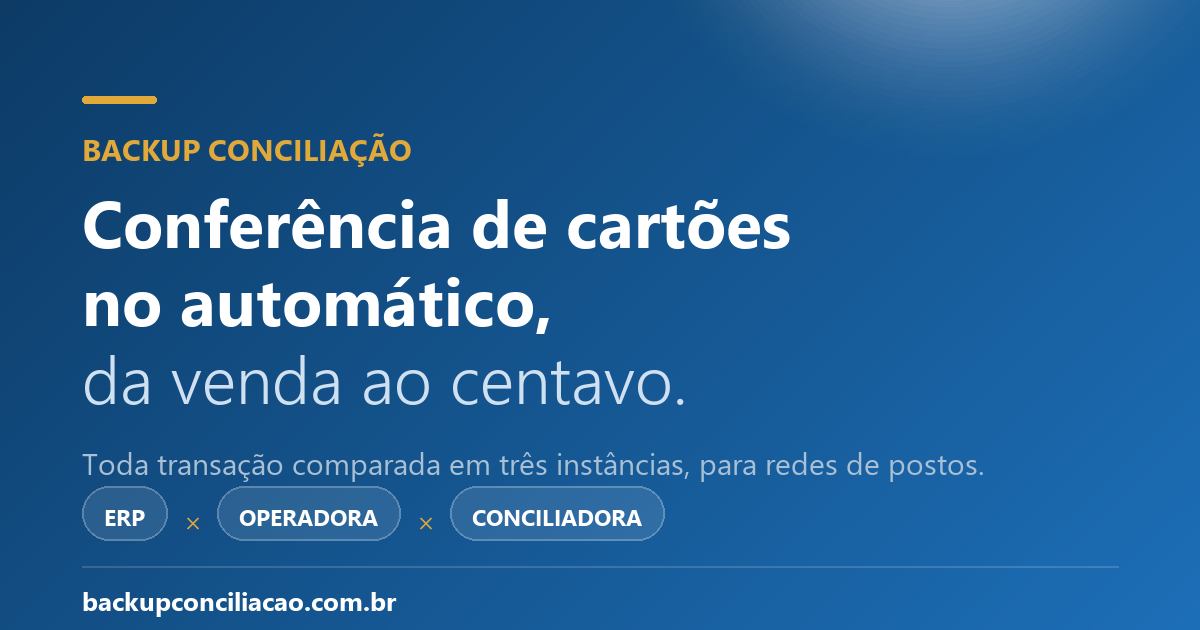
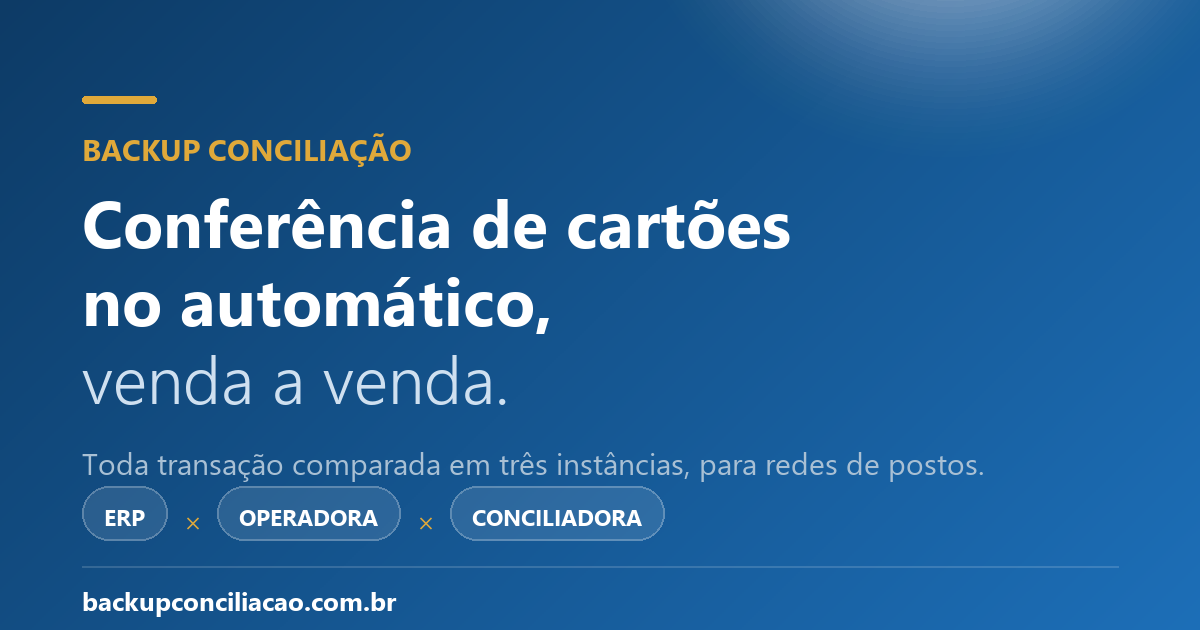
fix(textos): preço na tela e slogan 'venda a venda' (#47)
* fix(preco): trocar 'preço publicado, sem consulte-nos' por 'preço na tela'

Etiqueta do topo de /preco/ e destaques da home: o jargão 'consulte-nos' não era entendido. Agora: 'Preço na tela, sem pedir orçamento'.

* fix(home): slogan 'venda a venda' no lugar de 'da venda ao centavo'

O que pesa no posto é conferir venda por venda na mão; o título fala dessa dor. Pedido do owner 20/11/2026.

* fix(site): slogan 'venda a venda' no rodapé e na imagem de compartilhamento

Rodapé e og:image:alt das 25 páginas e og-image.png regerado. gerar_og_image.py passa a gravar ao lado do script (a pasta antiga do Desktop não existe mais).

---------

Changed region(s): [[0.0617, 0.573, 0.555, 0.6635]]

diff --git a/index.html b/index.html
@@ -21,7 +21,7 @@
 <meta property="og:image:width" content="1200">
 <meta property="og:image:height" content="630">
 <meta property="og:image:type" content="image/png">
-<meta property="og:image:alt" content="Backup Conciliação — conferência de cartões no automático, da venda ao centavo.">
+<meta property="og:image:alt" content="Backup Conciliação — conferência de cartões no automático, venda a venda.">
 
 <meta name="twitter:card" content="summary_large_image">
 <meta name="twitter:title" content="Backup Conciliação">
@@ -223,7 +223,7 @@
   <div class="wrap hero-inner">
     <div>
       <span class="eyebrow">Para redes de postos de combustíveis</span>
-      <h1>Conferência de cartões <span class="grad">no automático</span>, da venda ao centavo.</h1>
+      <h1>Conferência de cartões <span class="grad">no automático</span>, venda&nbsp;a&nbsp;venda.</h1>
       <p class="lead">Robôs baixam os relatórios das operadoras de cartão, frota, vale e PIX, cruzam com o seu ERP e a conciliadora, e apontam exatamente onde <strong>falta, sobra ou não foi pago</strong> — antes de virar prejuízo.</p>
       <div class="hero-cta">
         <a href="#contato" class="btn btn-primary">Use e pague após 30 dias &rarr;</a>
@@ -446,7 +446,7 @@
 <section id="calculadora" class="alt">
   <div class="wrap">
     <div class="sec-head">
-      <span class="kicker">Preço publicado</span>
+      <span class="kicker">Preço na tela</span>
       <h2>Quanto fica para a sua rede</h2>
       <p>O preço é por empresa (CNPJ), e o escopo final é fechado no contrato antes de começar. Sem taxa de implantação, sem fidelidade.</p>
     </div>
@@ -512,7 +512,7 @@
       </div>
       <div class="gcard">
         <div class="ico"><svg viewBox="0 0 24 24" aria-hidden="true"><path d="M20 12l-8 8-9-9V3h8z"/><circle cx="7.5" cy="7.5" r="1.5"/></svg></div>
-        <h3>Preço publicado</h3>
+        <h3>Preço na tela, sem pedir orçamento</h3>
         <p>R$ 150 por empresa (CNPJ) por mês na conferência de cartões. O escopo final é fechado no contrato antes de começar. <a href="/preco/">Ver preços</a>.</p>
       </div>
       <div class="gcard">
@@ -640,7 +640,7 @@
     <div class="foot-top">
       <div>
         <div class="foot-brand"><img class="logo" src="/logo.png" alt="" width="34" height="34"> Backup Conciliação</div>
-        <p style="max-width:340px">Conferência de cartões e conciliação bancária para redes de postos de combustíveis e varejo multiloja — automatizada da venda ao centavo. Atendimento 100% remoto em todo o Brasil.</p>
+        <p style="max-width:340px">Conferência de cartões e conciliação bancária para redes de postos de combustíveis e varejo multiloja — automatizada, venda a venda. Atendimento 100% remoto em todo o Brasil.</p>
       </div>
       <div>
         <h5>Navegação</h5>

diff --git a/preco/index.html b/preco/index.html
@@ -19,7 +19,7 @@
 <meta property="og:image" content="https://backupconciliacao.com.br/og-image.png">
 <meta property="og:image:width" content="1200">
 <meta property="og:image:height" content="630">
-<meta property="og:image:alt" content="Backup Conciliação — conferência de cartões no automático, da venda ao centavo.">
+<meta property="og:image:alt" content="Backup Conciliação — conferência de cartões no automático, venda a venda.">
 <meta name="twitter:card" content="summary_large_image">
 <meta name="twitter:title" content="Preço da conciliação de cartões para redes de postos">
 <meta name="twitter:description" content="R$ 150 por empresa/mês na conferência de cartões, R$ 100 na bancária. Preço publicado, sem fidelidade.">
@@ -187,7 +187,7 @@
           <li aria-current="page">Preço</li>
         </ol>
       </nav>
-      <span class="eyebrow">Preço publicado, sem "consulte-nos"</span>
+      <span class="eyebrow">Preço na tela, sem pedir orçamento</span>
       <h1>Preço da conciliação de cartões para redes de postos</h1>
       <p class="lead">R$ 150 por empresa/mês na conferência de cartões e R$ 100 na conciliação bancária. São os <strong>preços de cada módulo</strong>, e o escopo final é fechado no contrato antes de começar. Sem fidelidade: use e pague após 30 dias.</p>
       <div class="hero-cta">
@@ -197,7 +197,7 @@
       <div class="trust">
         <div><b>30 dias</b><span>use e pague após 30 dias</span></div>
         <div><b>Sem fidelidade e sem multa</b><span>para encerrar, avise com 30 dias</span></div>
-        <div><b>Preço publicado</b><span>escopo fechado no contrato</span></div>
+        <div><b>Preço na tela</b><span>escopo fechado no contrato</span></div>
       </div>
     </div>
   </div>
@@ -508,7 +508,7 @@
     <div class="foot-top">
       <div>
         <div class="foot-brand"><img class="logo" src="/logo.png" alt="" width="34" height="34"> Backup Conciliação</div>
-        <p style="max-width:340px">Conferência de cartões e conciliação bancária para redes de postos de combustíveis e varejo multiloja — automatizada da venda ao centavo. Atendimento 100% remoto em todo o Brasil.</p>
+        <p style="max-width:340px">Conferência de cartões e conciliação bancária para redes de postos de combustíveis e varejo multiloja — automatizada, venda a venda. Atendimento 100% remoto em todo o Brasil.</p>
       </div>
       <div>
         <h5>Navegação</h5>

diff --git a/guias/conciliacao-cartao-frota-posto/index.html b/guias/conciliacao-cartao-frota-posto/index.html
@@ -19,7 +19,7 @@
 <meta property="og:image" content="https://backupconciliacao.com.br/og-image.png">
 <meta property="og:image:width" content="1200">
 <meta property="og:image:height" content="630">
-<meta property="og:image:alt" content="Backup Conciliação — conferência de cartões no automático, da venda ao centavo.">
+<meta property="og:image:alt" content="Backup Conciliação — conferência de cartões no automático, venda a venda.">
 <meta name="twitter:card" content="summary_large_image">
 <meta name="twitter:title" content="Conciliação de cartão frota no posto: TicketLog, ValeCard, CTF, ProFrotas e Truckpag">
 <meta name="twitter:description" content="Como conferir cartão frota no posto (TicketLog, ValeCard, CTF, ProFrotas, Truckpag): do abastecimento ao reembolso no banco, passo a passo.">
@@ -295,7 +295,7 @@
     <div class="foot-top">
       <div>
         <div class="foot-brand"><img class="logo" src="/logo.png" alt="" width="34" height="34"> Backup Conciliação</div>
-        <p style="max-width:340px">Conferência de cartões e conciliação bancária para redes de postos de combustíveis e varejo multiloja — automatizada da venda ao centavo. Atendimento 100% remoto em todo o Brasil.</p>
+        <p style="max-width:340px">Conferência de cartões e conciliação bancária para redes de postos de combustíveis e varejo multiloja — automatizada, venda a venda. Atendimento 100% remoto em todo o Brasil.</p>
       </div>
       <div>
         <h5>Navegação</h5>

diff --git a/guias/getnet-nao-pagou-venda-do-posto/index.html b/guias/getnet-nao-pagou-venda-do-posto/index.html
@@ -19,7 +19,7 @@
 <meta property="og:image" content="https://backupconciliacao.com.br/og-image.png">
 <meta property="og:image:width" content="1200">
 <meta property="og:image:height" content="630">
-<meta property="og:image:alt" content="Backup Conciliação — conferência de cartões no automático, da venda ao centavo.">
+<meta property="og:image:alt" content="Backup Conciliação — conferência de cartões no automático, venda a venda.">
 <meta name="twitter:card" content="summary_large_image">
 <meta name="twitter:title" content="A Getnet não pagou uma venda do posto: como descobrir, provar e cobrar">
 <meta name="twitter:description" content="Como descobrir a venda que a Getnet não pagou ao posto, que prova juntar (NSU, autorização, extrato) e como pedir o ajuste, passo a passo.">
@@ -283,7 +283,7 @@
     <div class="foot-top">
       <div>
         <div class="foot-brand"><img class="logo" src="/logo.png" alt="" width="34" height="34"> Backup Conciliação</div>
-        <p style="max-width:340px">Conferência de cartões e conciliação bancária para redes de postos de combustíveis e varejo multiloja — automatizada da venda ao centavo. Atendimento 100% remoto em todo o Brasil.</p>
+        <p style="max-width:340px">Conferência de cartões e conciliação bancária para redes de postos de combustíveis e varejo multiloja — automatizada, venda a venda. Atendimento 100% remoto em todo o Brasil.</p>
       </div>
       <div>
         <h5>Navegação</h5>

diff --git a/guias/taxa-cielo-acima-do-contrato-posto/index.html b/guias/taxa-cielo-acima-do-contrato-posto/index.html
@@ -19,7 +19,7 @@
 <meta property="og:image" content="https://backupconciliacao.com.br/og-image.png">
 <meta property="og:image:width" content="1200">
 <meta property="og:image:height" content="630">
-<meta property="og:image:alt" content="Backup Conciliação — conferência de cartões no automático, da venda ao centavo.">
+<meta property="og:image:alt" content="Backup Conciliação — conferência de cartões no automático, venda a venda.">
 <meta name="twitter:card" content="summary_large_image">
 <meta name="twitter:title" content="Taxa da Cielo acima do contrato no posto: como conferir e pedir o ajuste">
 <meta name="twitter:description" content="Como calcular a taxa efetiva de cada venda da Cielo, comparar com o contrato por bandeira e modalidade e pedir a revisão das diferenças.">
@@ -292,7 +292,7 @@
     <div class="foot-top">
       <div>
         <div class="foot-brand"><img class="logo" src="/logo.png" alt="" width="34" height="34"> Backup Conciliação</div>
-        <p style="max-width:340px">Conferência de cartões e conciliação bancária para redes de postos de combustíveis e varejo multiloja — automatizada da venda ao centavo. Atendimento 100% remoto em todo o Brasil.</p>
+        <p style="max-width:340px">Conferência de cartões e conciliação bancária para redes de postos de combustíveis e varejo multiloja — automatizada, venda a venda. Atendimento 100% remoto em todo o Brasil.</p>
       </div>
       <div>
         <h5>Navegação</h5>

diff --git a/guias/duplicidade-cartao-e-frota-mesmo-abastecimento/index.html b/guias/duplicidade-cartao-e-frota-mesmo-abastecimento/index.html
@@ -19,7 +19,7 @@
 <meta property="og:image" content="https://backupconciliacao.com.br/og-image.png">
 <meta property="og:image:width" content="1200">
 <meta property="og:image:height" content="630">
-<meta property="og:image:alt" content="Backup Conciliação — conferência de cartões no automático, da venda ao centavo.">
+<meta property="og:image:alt" content="Backup Conciliação — conferência de cartões no automático, venda a venda.">
 <meta name="twitter:card" content="summary_large_image">
 <meta name="twitter:title" content="Duplicidade: o mesmo abastecimento cobrado no cartão e na frota">
 <meta name="twitter:description" content="Como encontrar o mesmo abastecimento cobrado no cartão e no cartão frota, por que acontece e o que fazer antes que o cliente conteste.">
@@ -301,7 +301,7 @@
     <div class="foot-top">
       <div>
         <div class="foot-brand"><img class="logo" src="/logo.png" alt="" width="34" height="34"> Backup Conciliação</div>
-        <p style="max-width:340px">Conferência de cartões e conciliação bancária para redes de postos de combustíveis e varejo multiloja — automatizada da venda ao centavo. Atendimento 100% remoto em todo o Brasil.</p>
+        <p style="max-width:340px">Conferência de cartões e conciliação bancária para redes de postos de combustíveis e varejo multiloja — automatizada, venda a venda. Atendimento 100% remoto em todo o Brasil.</p>
       </div>
       <div>
         <h5>Navegação</h5>

diff --git a/guias/index.html b/guias/index.html
@@ -19,7 +19,7 @@
 <meta property="og:image" content="https://backupconciliacao.com.br/og-image.png">
 <meta property="og:image:width" content="1200">
 <meta property="og:image:height" content="630">
-<meta property="og:image:alt" content="Backup Conciliação — conferência de cartões no automático, da venda ao centavo.">
+<meta property="og:image:alt" content="Backup Conciliação — conferência de cartões no automático, venda a venda.">
 <meta name="twitter:card" content="summary_large_image">
 <meta name="twitter:title" content="Guias para o financeiro de redes de postos">
 <meta name="twitter:description" content="Guias práticos para o financeiro de redes de postos: quanto custa uma conciliadora e como conferir e cobrar Getnet, Cielo, TicketLog, frota e aplicativos.">
@@ -231,7 +231,7 @@
     <div class="foot-top">
       <div>
         <div class="foot-brand"><img class="logo" src="/logo.png" alt="" width="34" height="34"> Backup Conciliação</div>
-        <p style="max-width:340px">Conferência de cartões e conciliação bancária para redes de postos de combustíveis e varejo multiloja — automatizada da venda ao centavo. Atendimento 100% remoto em todo o Brasil.</p>
+        <p style="max-width:340px">Conferência de cartões e conciliação bancária para redes de postos de combustíveis e varejo multiloja — automatizada, venda a venda. Atendimento 100% remoto em todo o Brasil.</p>
       </div>
       <div>
         <h5>Navegação</h5>

diff --git a/guias/conferir-reembolso-ticketlog-posto/index.html b/guias/conferir-reembolso-ticketlog-posto/index.html
@@ -19,7 +19,7 @@
 <meta property="og:image" content="https://backupconciliacao.com.br/og-image.png">
 <meta property="og:image:width" content="1200">
 <meta property="og:image:height" content="630">
-<meta property="og:image:alt" content="Backup Conciliação — conferência de cartões no automático, da venda ao centavo.">
+<meta property="og:image:alt" content="Backup Conciliação — conferência de cartões no automático, venda a venda.">
 <meta name="twitter:card" content="summary_large_image">
 <meta name="twitter:title" content="Como conferir o reembolso da TicketLog no posto">
 <meta name="twitter:description" content="Passo a passo para conferir o reembolso da TicketLog no posto: abastecimentos do caixa, transações do portal, taxa combinada e crédito no banco.">
@@ -289,7 +289,7 @@
     <div class="foot-top">
       <div>
         <div class="foot-brand"><img class="logo" src="/logo.png" alt="" width="34" height="34"> Backup Conciliação</div>
-        <p style="max-width:340px">Conferência de cartões e conciliação bancária para redes de postos de combustíveis e varejo multiloja — automatizada da venda ao centavo. Atendimento 100% remoto em todo o Brasil.</p>
+        <p style="max-width:340px">Conferência de cartões e conciliação bancária para redes de postos de combustíveis e varejo multiloja — automatizada, venda a venda. Atendimento 100% remoto em todo o Brasil.</p>
       </div>
       <div>
         <h5>Navegação</h5>

diff --git a/guias/conferir-shellbox-semparar-ctf-posto/index.html b/guias/conferir-shellbox-semparar-ctf-posto/index.html
@@ -19,7 +19,7 @@
 <meta property="og:image" content="https://backupconciliacao.com.br/og-image.png">
 <meta property="og:image:width" content="1200">
 <meta property="og:image:height" content="630">
-<meta property="og:image:alt" content="Backup Conciliação — conferência de cartões no automático, da venda ao centavo.">
+<meta property="og:image:alt" content="Backup Conciliação — conferência de cartões no automático, venda a venda.">
 <meta name="twitter:card" content="summary_large_image">
 <meta name="twitter:title" content="Como conferir Shell Box, Sem Parar e CTF no posto">
 <meta name="twitter:description" content="Shell Box, Sem Parar e CTF não aparecem no relatório da maquininha. Veja como conferir cada repasse, do caixa do posto ao extrato bancário.">
@@ -290,7 +290,7 @@
     <div class="foot-top">
       <div>
         <div class="foot-brand"><img class="logo" src="/logo.png" alt="" width="34" height="34"> Backup Conciliação</div>
-        <p style="max-width:340px">Conferência de cartões e conciliação bancária para redes de postos de combustíveis e varejo multiloja — automatizada da venda ao centavo. Atendimento 100% remoto em todo o Brasil.</p>
+        <p style="max-width:340px">Conferência de cartões e conciliação bancária para redes de postos de combustíveis e varejo multiloja — automatizada, venda a venda. Atendimento 100% remoto em todo o Brasil.</p>
       </div>
       <div>
         <h5>Navegação</h5>

diff --git a/guias/quanto-custa-conciliadora-para-postos/index.html b/guias/quanto-custa-conciliadora-para-postos/index.html
@@ -19,7 +19,7 @@
 <meta property="og:image" content="https://backupconciliacao.com.br/og-image.png">
 <meta property="og:image:width" content="1200">
 <meta property="og:image:height" content="630">
-<meta property="og:image:alt" content="Backup Conciliação — conferência de cartões no automático, da venda ao centavo.">
+<meta property="og:image:alt" content="Backup Conciliação — conferência de cartões no automático, venda a venda.">
 <meta name="twitter:card" content="summary_large_image">
 <meta name="twitter:title" content="Quanto custa uma conciliadora de cartões para postos">
 <meta name="twitter:description" content="Preço de conciliadora de cartões para postos: R$ 150 por CNPJ/mês, sem implantação nem fidelidade. Tabela para 5, 10, 20 e 50 postos.">
@@ -289,7 +289,7 @@
     <div class="foot-top">
       <div>
         <div class="foot-brand"><img class="logo" src="/logo.png" alt="" width="34" height="34"> Backup Conciliação</div>
-        <p style="max-width:340px">Conferência de cartões e conciliação bancária para redes de postos de combustíveis e varejo multiloja — automatizada da venda ao centavo. Atendimento 100% remoto em todo o Brasil.</p>
+        <p style="max-width:340px">Conferência de cartões e conciliação bancária para redes de postos de combustíveis e varejo multiloja — automatizada, venda a venda. Atendimento 100% remoto em todo o Brasil.</p>
       </div>
       <div>
         <h5>Navegação</h5>

diff --git a/operadoras/ctf/index.html b/operadoras/ctf/index.html
@@ -19,7 +19,7 @@
 <meta property="og:image" content="https://backupconciliacao.com.br/og-image.png">
 <meta property="og:image:width" content="1200">
 <meta property="og:image:height" content="630">
-<meta property="og:image:alt" content="Backup Conciliação — conferência de cartões no automático, da venda ao centavo.">
+<meta property="og:image:alt" content="Backup Conciliação — conferência de cartões no automático, venda a venda.">
 <meta name="twitter:card" content="summary_large_image">
 <meta name="twitter:title" content="Conciliação CTF para postos: frota com identificação">
 <meta name="twitter:description" content="Conciliação CTF (Sem Parar Empresas) para postos: abastecimento identificado por UVE e créditos conferidos contra o caixa e o banco.">
@@ -248,7 +248,7 @@
     <div class="foot-top">
       <div>
         <div class="foot-brand"><img class="logo" src="/logo.png" alt="" width="34" height="34"> Backup Conciliação</div>
-        <p style="max-width:340px">Conferência de cartões e conciliação bancária para redes de postos de combustíveis e varejo multiloja — automatizada da venda ao centavo. Atendimento 100% remoto em todo o Brasil.</p>
+        <p style="max-width:340px">Conferência de cartões e conciliação bancária para redes de postos de combustíveis e varejo multiloja — automatizada, venda a venda. Atendimento 100% remoto em todo o Brasil.</p>
       </div>
       <div>
         <h5>Navegação</h5>

diff --git a/operadoras/valecard/index.html b/operadoras/valecard/index.html
@@ -19,7 +19,7 @@
 <meta property="og:image" content="https://backupconciliacao.com.br/og-image.png">
 <meta property="og:image:width" content="1200">
 <meta property="og:image:height" content="630">
-<meta property="og:image:alt" content="Backup Conciliação — conferência de cartões no automático, da venda ao centavo.">
+<meta property="og:image:alt" content="Backup Conciliação — conferência de cartões no automático, venda a venda.">
 <meta name="twitter:card" content="summary_large_image">
 <meta name="twitter:title" content="Conciliação ValeCard para postos: cartão frota">
 <meta name="twitter:description" content="Conciliação ValeCard para postos: Vale Abastecimento, Frota Pesada e Prime Posto, com pagamentos e antecipação conferidos contra o banco.">
@@ -249,7 +249,7 @@
     <div class="foot-top">
       <div>
         <div class="foot-brand"><img class="logo" src="/logo.png" alt="" width="34" height="34"> Backup Conciliação</div>
-        <p style="max-width:340px">Conferência de cartões e conciliação bancária para redes de postos de combustíveis e varejo multiloja — automatizada da venda ao centavo. Atendimento 100% remoto em todo o Brasil.</p>
+        <p style="max-width:340px">Conferência de cartões e conciliação bancária para redes de postos de combustíveis e varejo multiloja — automatizada, venda a venda. Atendimento 100% remoto em todo o Brasil.</p>
       </div>
       <div>
         <h5>Navegação</h5>
